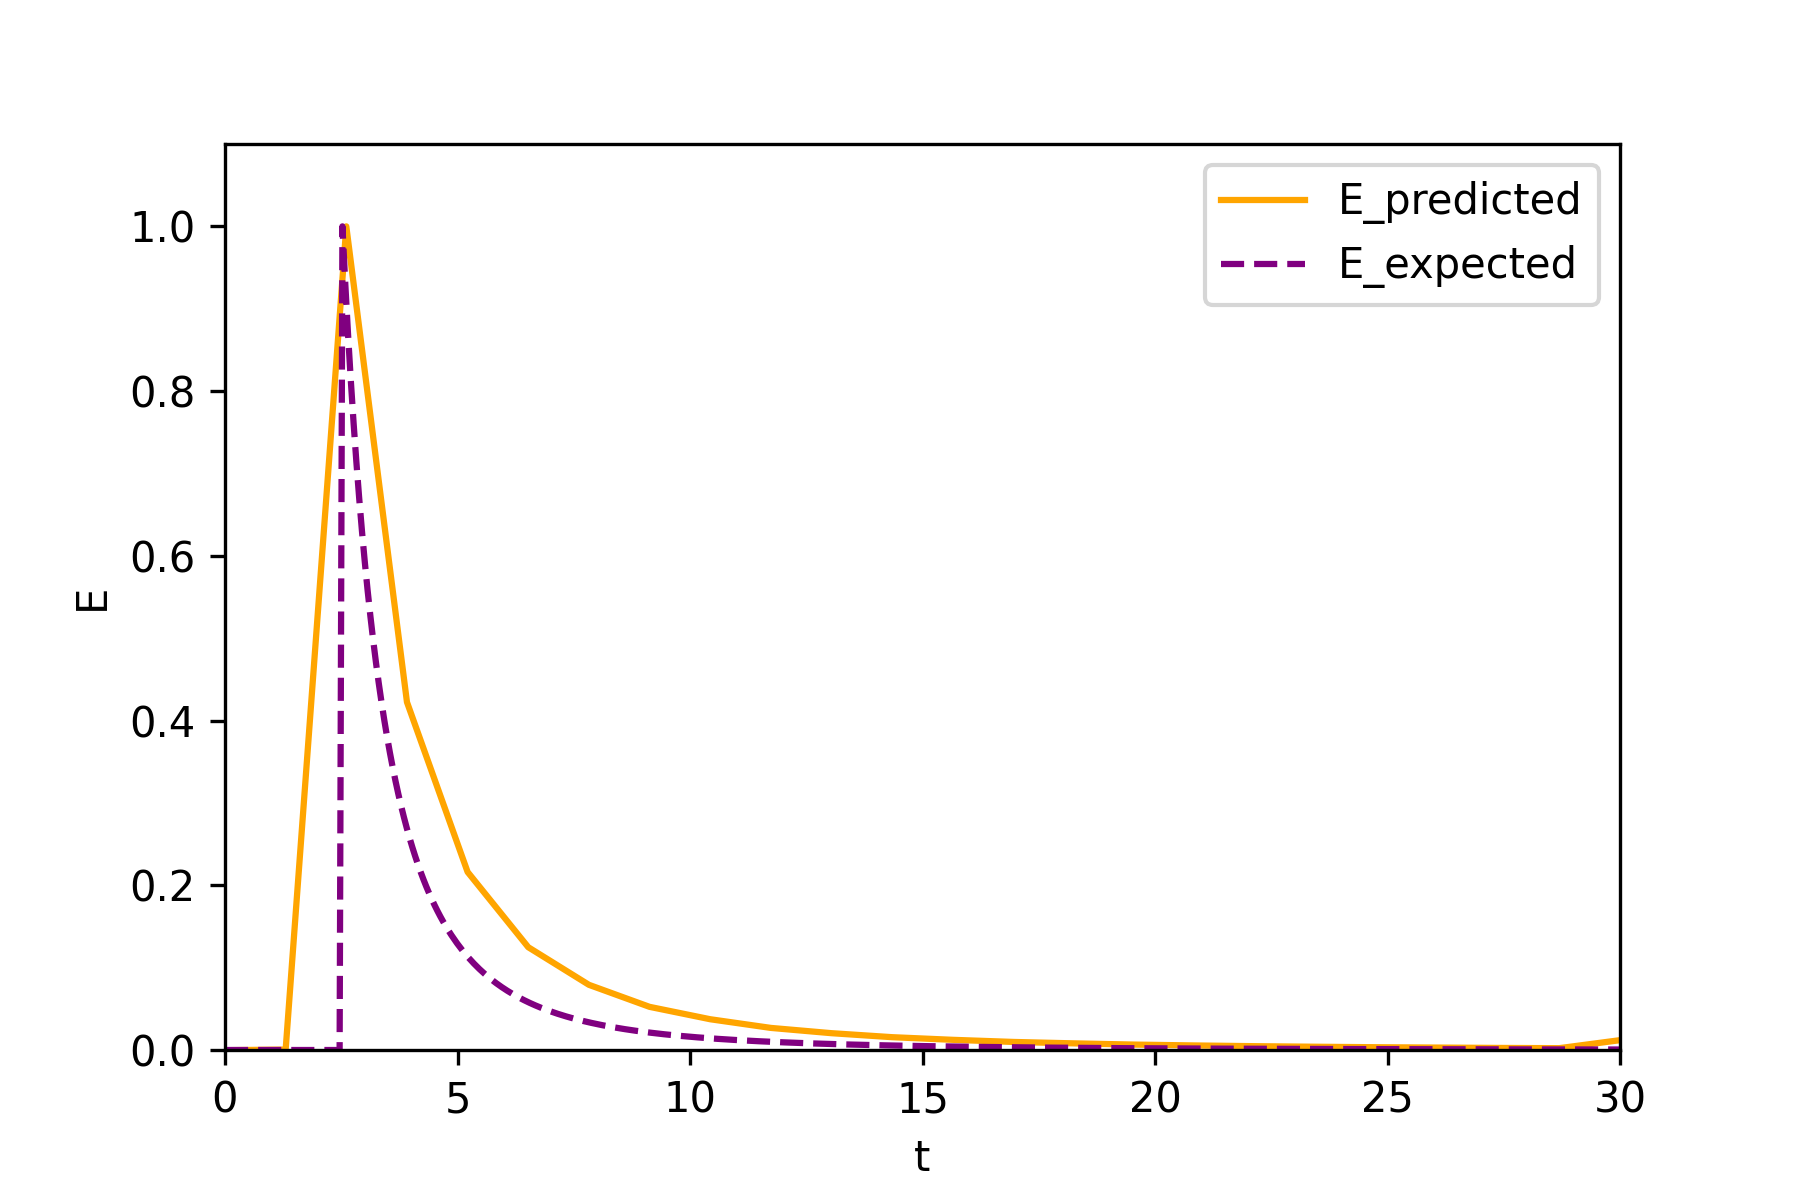
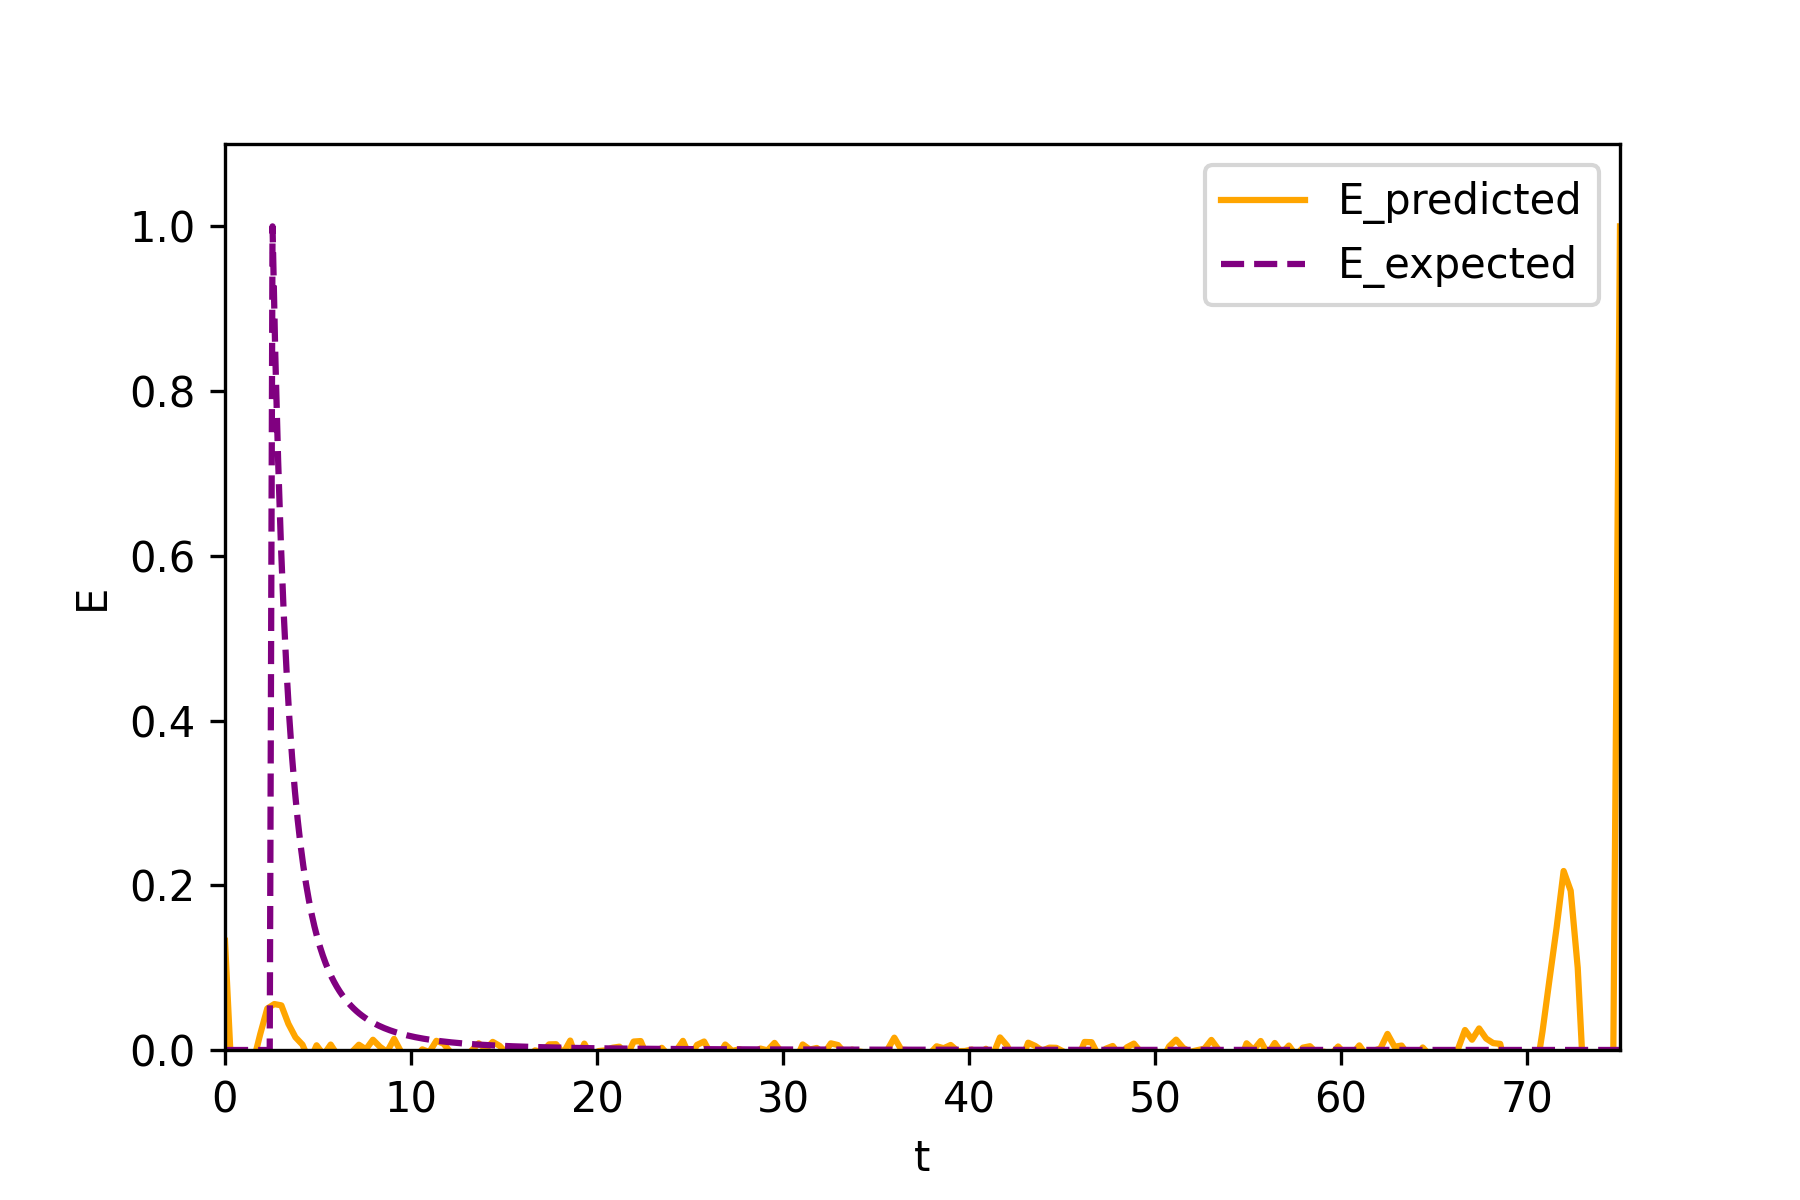
Laminar flow, dynamic

Changed region(s): [[0.1244, 0.185, 0.9333, 0.925], [0.28, 0.7708, 0.3111, 0.8017], [0.2489, 0.8017, 0.28, 0.8325]]

diff --git a/Experiments/Preliminary/Convolution_script/Convolution_Laminar_Flow_Dynamic/Laminar_flow_Dynamic_Convolution.py b/Experiments/Preliminary/Convolution_script/Convolution_Laminar_Flow_Dynamic/Laminar_flow_Dynamic_Convolution.py
@@ -1,0 +1,176 @@
+import sys
+import os
+module_path = os.path.expanduser("~/Documents/GitHub/nRTD/lib")
+sys.path.append(module_path)
+import torch
+from torch.utils.data import TensorDataset, DataLoader
+import lightning.pytorch as pl
+import matplotlib.pyplot as plt
+import numpy as np
+import wandb
+from nRTD import RTDModule
+from lightning.pytorch import loggers as pl_loggers
+import numpy.typing as npt
+
+if wandb.run is not None:
+    wandb.finish()
+module_path = os.path.expanduser("~/Documents/GitHub/nRTD/lib")
+sys.path.append(module_path)
+
+epoch=10000
+laminar_model_dir='/Users/tuanaoyuncu/Documents/GitHub/nRTD/Experiments/Preliminary/Convolution_script/Convolution_Laminar_Flow_Dynamic'
+tau_5_dir = '/Users/tuanaoyuncu/Documents/GitHub/nRTD/Experiments/Preliminary/Litrature/Laminar_Flow_Model_dynamic/tau_5.0'
+t_conv_tau = torch.tensor(np.load(os.path.join(tau_5_dir, 'time.npy')), dtype=torch.float32).unsqueeze(0).unsqueeze(0)
+c_out_tau = torch.tensor(np.load(os.path.join(tau_5_dir, 'concentration.npy')), dtype=torch.float32).unsqueeze(0).unsqueeze(0)
+
+# t_in_conv = torch.tensor(np.load(os.path.join(laminar_model_dir, 'time.npy')), dtype=torch.float32).unsqueeze(0).unsqueeze(0)
+# c_in_conv = torch.tensor(np.load(os.path.join(laminar_model_dir, 'c_conv_in.npy')), dtype=torch.float32).unsqueeze(0).unsqueeze(0)
+
+n_disc = 150
+t_input = torch.linspace(0, 75, n_disc)
+def input_function(t: npt.NDArray[np.float64]) -> npt.NDArray[np.float64]:
+    return 0.5 * (1 - np.cos(1.2 * t)) 
+
+c_in = torch.tensor(input_function(t_input.numpy()), dtype=torch.float32).unsqueeze(0).unsqueeze(0)
+c_out_list = []
+t_conv_list = []
+c_out_list.append(c_out_tau)
+t_conv_list.append(t_conv_tau)
+c_out = torch.cat(c_out_list, dim=0)
+t_conv = torch.cat(t_conv_list, dim=0)
+
+plt.show()
+print(f"c_in size: {c_in.size()}")
+print(f"c_out size: {c_out.size()}")
+print(f"t_conv size: {t_conv.size()}")
+
+model = RTDModule(
+    kernel_size=149,
+    learning_rate=10e-3,
+    use_scheduler=True,
+    scheduler_kwargs={"factor": 0.5, "patience": 80},
+)
+c_conv = model(c_in)
+E = model.net.E[0]
+t_E = torch.linspace(0, 75, model.kernel_size)
+E = E / E.max()
+
+j = 0  
+
+plt.figure()
+plt.plot(t_input, c_in[j, 0, :].numpy(), label="SF", color="blue")
+
+for i in range(c_out.size(1)):
+    plt.plot(
+        t_conv[j, i, :].numpy(),
+        c_out[j, i, :].numpy(),
+        label="Tau 5.0",
+        color="green")
+plt.plot(
+    t_conv[j, 0, :].numpy(),
+    c_conv[j, 0, :].detach().numpy(),
+    label="Predicted",
+    color="red",
+)
+plt.plot(t_E, E, label="E", color="orange")
+plt.legend()
+plt.xlim((0, 40))
+plt.ylim((0, 1.1))
+plt.show()
+
+print(model(c_in).size())
+ds = TensorDataset(c_in, c_out)
+dl = DataLoader(ds, batch_size=20, shuffle=True)
+wandb_logger = pl_loggers.WandbLogger(
+    project="nRTD",
+    log_model=True
+)
+
+trainer = pl.Trainer(
+    accelerator="auto",
+    max_epochs=epoch,
+    logger=wandb_logger,
+    deterministic=True,
+)
+
+# trainer = pl.Trainer(
+#     accelerator="auto",
+#     max_epochs=epoch,
+#     deterministic=True,
+# )
+
+trainer.fit(model, dl)
+trainer.test(model, dl)
+
+c_conv = model(c_in)
+E = model.net.E[0]
+t_E = torch.linspace(0, 75, model.kernel_size)
+E = E / E.max()
+t_E_np = np.linspace(0, 75, 400)
+
+def expected_formula(t):
+    return np.where(t >= 2.5, (2.5**2) / (2 * (t**3)), 0)
+E_expected_np = expected_formula(t_E_np)
+E_expected_np = E_expected_np / E_expected_np.max()
+
+fig, (ax1, ax2) = plt.subplots(2, 1, sharex=True, figsize=(10, 8))
+fig.subplots_adjust(hspace=0)  
+ax1.plot(t_input, c_in[0, 0, :].numpy(), label="SF", color="blue")
+for i in range(c_out.size(1)):
+    ax1.plot(
+        t_conv[0, i, :].numpy(),
+        c_out[0, i, :].numpy(),
+        label="Tau 5.0",
+        color="green",
+    )
+ax1.plot(
+    t_conv[0, 0, :].numpy(),
+    c_conv[0, 0, :].detach().numpy(),
+    label="Predicted",
+    color="red", linestyle="--"
+)
+ax1.set_xlim((0, 10))
+ax1.set_ylim((0, 1.1))
+ax1.set_ylabel('Concentration')
+ax1.legend()
+ax1.tick_params(labelbottom=False)
+ax2.plot(t_E, E, label="E_Predicted", color="orange")
+ax2.set_xlabel('t')
+ax2.set_ylabel('E')
+ax2.plot(t_E_np, E_expected_np, label="E_Expected", color="purple", linestyle="--")
+ax2.set_xlim((0,10))
+ax2.set_ylim((0, 1.1))
+ax2.legend()
+plt.xlabel("Time")
+plt.savefig('Figure_connected_plot_21102024.png', dpi=300)
+plt.show()
+
+# Saving of E and time
+predicted_E = E
+predicted_time = t_E.numpy()               
+expected_E = E_expected_np                   
+expected_time = t_E_np
+c_conv_in_50=c_conv.detach().numpy()
+save_dir = "/Users/tuanaoyuncu/Documents/GitHub/nRTD/Experiments/Preliminary/Convolution_script/Convolution_018_Laminar_Model"
+np.save(os.path.join(save_dir, 'E_predicted.npy'), predicted_E)
+np.save(os.path.join(save_dir, 't_E_predicted.npy'), predicted_time)
+np.save(os.path.join(save_dir, 'E_expected.npy'), expected_E)
+np.save(os.path.join(save_dir, 't_E_expected.npy'), expected_time)
+np.save(os.path.join(save_dir, 'c_conv_in_100.npy'),c_conv_in_50 )
+print("saved under:", save_dir)
+predicted_E = np.load('/Users/tuanaoyuncu/Documents/GitHub/nRTD/Experiments/Preliminary/Convolution_script/Convolution_018_Laminar_Model/E_predicted.npy')
+predicted_time = np.load('/Users/tuanaoyuncu/Documents/GitHub/nRTD/Experiments/Preliminary/Convolution_script/Convolution_018_Laminar_Model/t_E_predicted.npy')
+plt.plot(predicted_time, predicted_E, label='E_predicted', color='orange')
+plt.plot(expected_time, expected_E, label='E_expected', color='purple', linestyle='--')
+plt.xlabel('t')
+plt.ylabel('E')
+plt.xlim((predicted_time.min(), predicted_time.max()))
+plt.ylim((0, 1.1))  
+plt.legend()
+plt.savefig('E_saved_09102024.png', dpi=300)
+plt.show()
+# print("c_in_conv)",c_conv_in_50)
+# print("expected_time",expected_time)
+# print(f"c_conv_in size: {t_E.numpy().shape}")
+# print(f"c_conv_in size: {t_E_np.shape}")
+# print(f"c_conv_in_100 shape: {c_conv_in_50.shape}")

diff --git a/Experiments/Preliminary/Litrature/Laminar_Flow_Model_dynamic/Laminar_flow_dynamic.py b/Experiments/Preliminary/Litrature/Laminar_Flow_Model_dynamic/Laminar_flow_dynamic.py
@@ -1,0 +1,51 @@
+import numpy as np
+import matplotlib.pyplot as plt
+import numpy.typing as npt
+import os
+
+noise_level = 0.001
+tau = 5.0
+base_dir = '/Users/tuanaoyuncu/Documents/GitHub/nRTD/Experiments/Preliminary/Litrature/Laminar_Flow_Model_dynamic'
+
+
+def input_function(t: npt.NDArray[np.float64]) -> npt.NDArray[np.float64]:
+    return 0.5 * (1 - np.cos(1.2 * t))
+def laminarflow(t: npt.NDArray[np.float64], tau: float) -> npt.NDArray[np.float64]:
+    E = np.zeros_like(t)
+    E[t >= tau / 2] = (tau**2) / (2 * (t[t >= tau / 2]**3))
+    return E
+t = np.linspace(0, 150, 300)  
+
+input_func = input_function(t)
+E = laminarflow(t, tau)
+E_normalized = E / np.sum(E)
+c_out_full = np.convolve(input_func, E_normalized, mode="full")
+t_conv_full = np.linspace(t[0], t[0] + t[-1] * 2, len(c_out_full))
+valid_indices = t_conv_full <= t[-1]
+t_conv = t_conv_full[valid_indices]
+c_out = c_out_full[valid_indices]
+
+variance_scale = noise_level * np.var(c_out)
+noise = np.random.normal(0, np.sqrt(variance_scale), c_out.shape)
+c_out_noisy = c_out + noise
+
+tau_dir = os.path.join(base_dir, f'tau_{tau}')
+os.makedirs(tau_dir, exist_ok=True)
+np.save(os.path.join(tau_dir, 'time.npy'), t_conv)
+np.save(os.path.join(tau_dir, 'concentration.npy'), c_out_noisy)
+fig, (ax1, ax2) = plt.subplots(2, 1, figsize=(10, 12))
+ax1.plot(t, E/E.max(), label=f'Laminar Flow E (tau = {tau})', color="red")
+ax1.set_ylim(0, 1.1)
+ax1.set_xlim(0, 50)
+ax1.set_xlabel('Time')
+ax1.set_ylabel('E')
+ax1.legend()
+ax2.plot(t_conv, c_out, label='Convolved Output c_out', color="blue")
+ax2.plot(t_conv, c_out_noisy, label='Convolved Output_noisy c_out',linestyle='--', color="red",)
+ax2.plot(t, input_func, label='Input Function', linestyle='--', color='black')
+ax2.set_ylim(0, 1.1 )
+ax2.set_xlim(0, 50)
+ax2.set_xlabel('Time')
+ax2.set_ylabel('Concentration')
+ax2.legend()
+plt.show()

diff --git a/Experiments/Preliminary/Noisy_data/Sqrt_Method/Laminar_Flow_Model_Sqrt_Noisy_multiple_trainer_loop_03.py b/Experiments/Preliminary/Noisy_data/Sqrt_Method/Laminar_Flow_Model_Sqrt_Noisy_multiple_trainer_loop_03.py
@@ -10,8 +10,8 @@ from lightning.pytorch import loggers as pl_loggers
 import wandb
 
 
-if wandb.run is not None:
-    wandb.finish()
+# if wandb.run is not None:
+#     wandb.finish()    
     
 epoch=10
 n_disc = 100
@@ -87,6 +87,5 @@ for num_train_files in train_file_configurations:
     plt.xlim((0, 30))
     plt.ylim((0, 2))
     plt.legend()
-    plt.title(f"Model Behavior with {num_train_files} Training Files")
     plt.show()
     wandb.finish()

diff --git a/Experiments/Preliminary/Litrature/Laminar_Flow_Model/Laminar_flow_003.py b/Experiments/Preliminary/Litrature/Laminar_Flow_Model/Laminar_flow_003.py
@@ -28,8 +28,8 @@ c_out = c_out_full[valid_indices]
 tau_dir = os.path.join(base_dir, f'tau_combined_{tau}')
 os.makedirs(tau_dir, exist_ok=True)
 
-np.save(os.path.join(tau_dir, 'time_combined.npy'), t_conv)
-np.save(os.path.join(tau_dir, 'concentration_combined.npy'), c_out)
+# np.save(os.path.join(tau_dir, 'time_combined.npy'), t_conv)
+# np.save(os.path.join(tau_dir, 'concentration_combined.npy'), c_out)
 
 
 ax1.plot(t, E, label=f'tau {tau}')

diff --git a/Experiments/Preliminary/Litrature/Cholete_Model/Cholete_Model_004.py b/Experiments/Preliminary/Litrature/Cholete_Model/Cholete_Model_004.py
@@ -55,8 +55,8 @@ ax1.set_ylabel('E')
 ax1.legend()
 ax1.set_ylim(0, 1)
 ax1.set_xticks(np.arange(0, 5, 1))  
-ax1.set_xlim(0, 5)
-ax2.set_xlim(0, 5)
+ax1.set_xlim(0, 20)
+ax2.set_xlim(0, 20)
 ax2.set_xlabel('t')
 ax2.set_ylabel("C")
 ax2.set_xticks(np.arange(0, 7, 1))  

diff --git a/Experiments/Preliminary/Noisy_data/Sqrt_Method/Laminar_Flow_noisy_2_doc.py b/Experiments/Preliminary/Noisy_data/Sqrt_Method/Laminar_Flow_noisy_2_doc.py
@@ -1,11 +1,3 @@
-#!/usr/bin/env python3
-# -*- coding: utf-8 -*-
-"""
-Created on Wed Oct 30 14:37:01 2024
-
-@author: tuanaoyuncu
-"""
-
 import os
 import numpy as np
 import matplotlib.pyplot as plt
